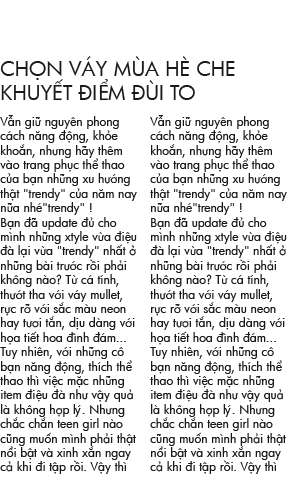
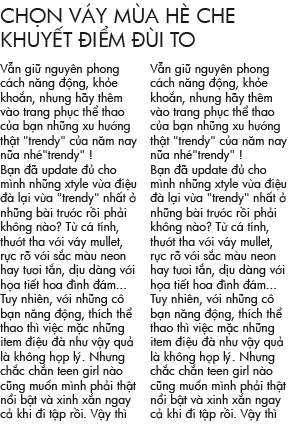
[feature] add background for sub_content and sub_fashion, sometmes content need transparent apart to see background!!!

diff --git a/trunk/SourceCode/PageFlip/PageFlip/PageOnlyForMakingLayout.xaml b/trunk/SourceCode/PageFlip/PageFlip/PageOnlyForMakingLayout.xaml
@@ -44,7 +44,11 @@
             </Grid>
         </Grid>-->
 
-        <Grid x:Name="left" Background="White" Width="460" Height="520">
+        <Grid x:Name="left" Width="460" Height="520">
+            <Grid.Background>
+                <!--<ImageBrush AlignmentX="Left" AlignmentY="Top" Stretch="None" ImageSource="/PageFlip;component/Images/Demo1/lifestyle_01_01.jpg"></ImageBrush>-->
+                <SolidColorBrush Color="Orange"></SolidColorBrush>
+            </Grid.Background>
             <Grid Margin="20,20,10,20" ShowGridLines="True">
                 <Grid.ColumnDefinitions>
                     <ColumnDefinition Width="*"></ColumnDefinition>

diff --git a/trunk/SourceCode/PageFlip/PageFlip/Data/TilePage.cs b/trunk/SourceCode/PageFlip/PageFlip/Data/TilePage.cs
@@ -21,9 +21,12 @@ namespace DataManager
         public int NGridColumns;
 
         public string Margin;
+
+        public string ImageBrush;
         public TilePage()
         {
             Margin = "0,0,0,0";
+            ImageBrush = string.Empty;
         }
 
         public virtual UIElement generatePage()
@@ -40,16 +43,29 @@ namespace DataManager
                 xamlRows += "<RowDefinition Height='*'></RowDefinition>\r\n";
             }
 
-
-            string strColor;
-            if (this.currentIndex % 2 == 0) strColor = "Orange";
-            else strColor = "Violet";
+            //<!--<ImageBrush AlignmentX='Left' AlignmentY='Top' Stretch='None' ImageSource='/PageFlip;component/Images/Demo1/lifestyle_01_01.jpg'></ImageBrush>-->
+                //<SolidColorBrush Color='Orange'></SolidColorBrush>
+            string strBackgroundColor;
+            if (this.ImageBrush != string.Empty)
+            {
+                strBackgroundColor = "<ImageBrush AlignmentX='Left' AlignmentY='Top' Stretch='None' ImageSource='" 
+                    + this.ImageBrush + "'></ImageBrush>";
+            }
+            else
+            {
+                if (this.currentIndex % 2 == 0) strBackgroundColor = "<SolidColorBrush Color='Orange'></SolidColorBrush>";
+                else strBackgroundColor = "<SolidColorBrush Color='Violet'></SolidColorBrush>";
+            }
+            
             string xaml = string.Format(@"
 <Grid
     xmlns='http://schemas.microsoft.com/client/2007'
     xmlns:x='http://schemas.microsoft.com/winfx/2006/xaml'
-Background='{3}'
 >
+            <Grid.Background>
+                {3}
+            </Grid.Background>
+
 <Grid.ColumnDefinitions>
     <ColumnDefinition Width='*'></ColumnDefinition>
 </Grid.ColumnDefinitions>
@@ -58,7 +74,7 @@ Background='{3}'
     <RowDefinition Height='*'></RowDefinition>
 </Grid.RowDefinitions>
 
-    <Grid Background='White' ShowGridLines='True' Margin='{2}'>
+    <Grid ShowGridLines='True' Margin='{2}'>
             <Grid.ColumnDefinitions>
                 {0}
             </Grid.ColumnDefinitions>
@@ -67,7 +83,7 @@ Background='{3}'
             </Grid.RowDefinitions>
     </Grid>
 </Grid>
-", xamlColumns, xamlRows, this.Margin, strColor);
+", xamlColumns, xamlRows, this.Margin, strBackgroundColor);
 
             int iCounter = 0;
             Grid grdRoot = (Grid)Ultis.LoadXamlFromString(xaml);
@@ -105,6 +121,11 @@ Background='{3}'
                     case "Margin":
                         {
                             this.Margin = reader.Value;
+                            break;
+                        }
+                    case "ImageBrush":
+                        {
+                            this.ImageBrush = reader.Value;
                             break;
                         }
                     default:
@@ -152,9 +173,9 @@ Background='{3}'
 ////            }
 
 
-////            string strColor;
-////            if (this.currentIndex % 2 == 0) strColor = "Orange";
-////            else strColor = "Violet";
+////            string strBackgroundColor;
+////            if (this.currentIndex % 2 == 0) strBackgroundColor = "Orange";
+////            else strBackgroundColor = "Violet";
 ////            string xaml = string.Format(@"
 ////<Grid
 ////    xmlns='http://schemas.microsoft.com/client/2007'
@@ -178,7 +199,7 @@ Background='{3}'
 ////            </Grid.RowDefinitions>
 ////    </Grid>
 ////</Grid>
-////", xamlColumns, xamlRows, this.Margin, strColor);
+////", xamlColumns, xamlRows, this.Margin, strBackgroundColor);
 
 ////            int iCounter = 0;
 ////            Grid grdRoot = (Grid)Ultis.LoadXamlFromString(xaml);
